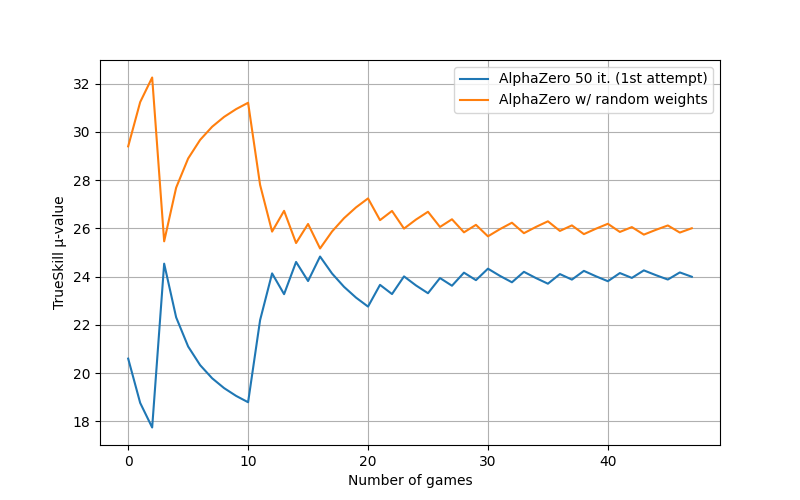
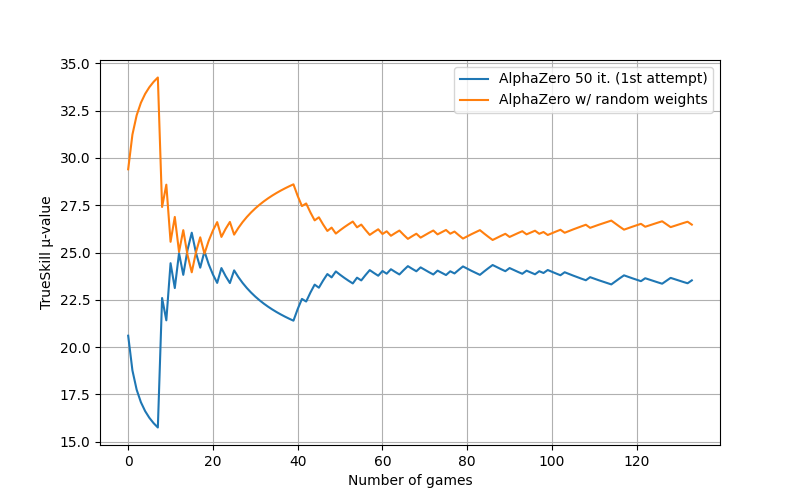
New graph and preparing for temp comparison

diff --git a/a4/tournament/configs.py b/a4/tournament/configs.py
@@ -27,6 +27,13 @@ configs = {
         { 'id': 'ID-TT alpha-beta', 'search': 'minimax', 'depth': None, 'time_limit': 0.1, 'eval': 'Dijkstra', 'rave_k': -1 },
         { 'id': 'MCTS', 'search': 'mcts', 'depth': None, 'time_limit': 0.1, 'eval': 'Dijkstra', 'rave_k': -1 },
     ],
+    '50_50_temp_mcts_minimax': [
+        { 'id': 'AlphaZero 50 it. (1)', 'search': 'alphazero', 'model_path': 'alphazero/tests/new_50x50it_cp2_da1.1_q150.pt'},
+        { 'id': 'AlphaZero 50 it. (2)', 'search': 'alphazero', 'model_path': 'alphazero/tests/new_50x50it_cp2_da1.1_q150_2.pt'},
+        { 'id': 'AlphaZero 50 it. temp 0.2.', 'search': 'alphazero', 'model_path': 'alphazero/tests/new_50x50it_cp2_da1.1_q1500_temp0.2.pt'},
+        { 'id': 'ID-TT alpha-beta', 'search': 'minimax', 'depth': None, 'time_limit': 0.1, 'eval': 'Dijkstra', 'rave_k': -1 },
+        { 'id': 'MCTS', 'search': 'mcts', 'depth': None, 'time_limit': 0.1, 'eval': 'Dijkstra', 'rave_k': -1 },
+    ],
     'training_length': [
         { 'id': '0 it. (random weights)', 'search': 'alphazero', 'model_path': 'alphazero/tests/random.pt'},
         { 'id': '50 it.', 'search': 'alphazero', 'model_path': 'alphazero/tests/new_50x50it_cp2_da1.1_q150.pt'},
